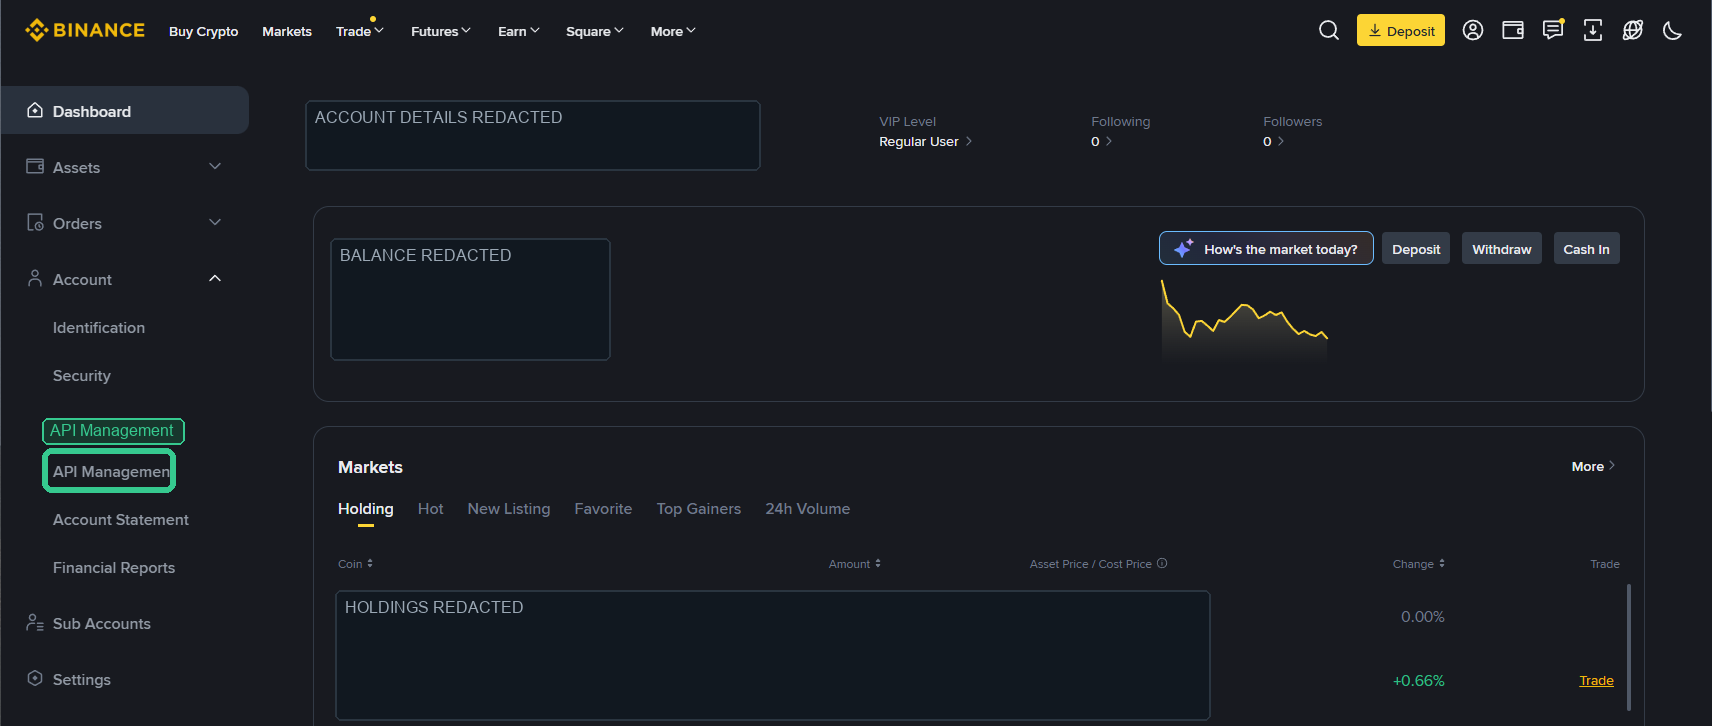
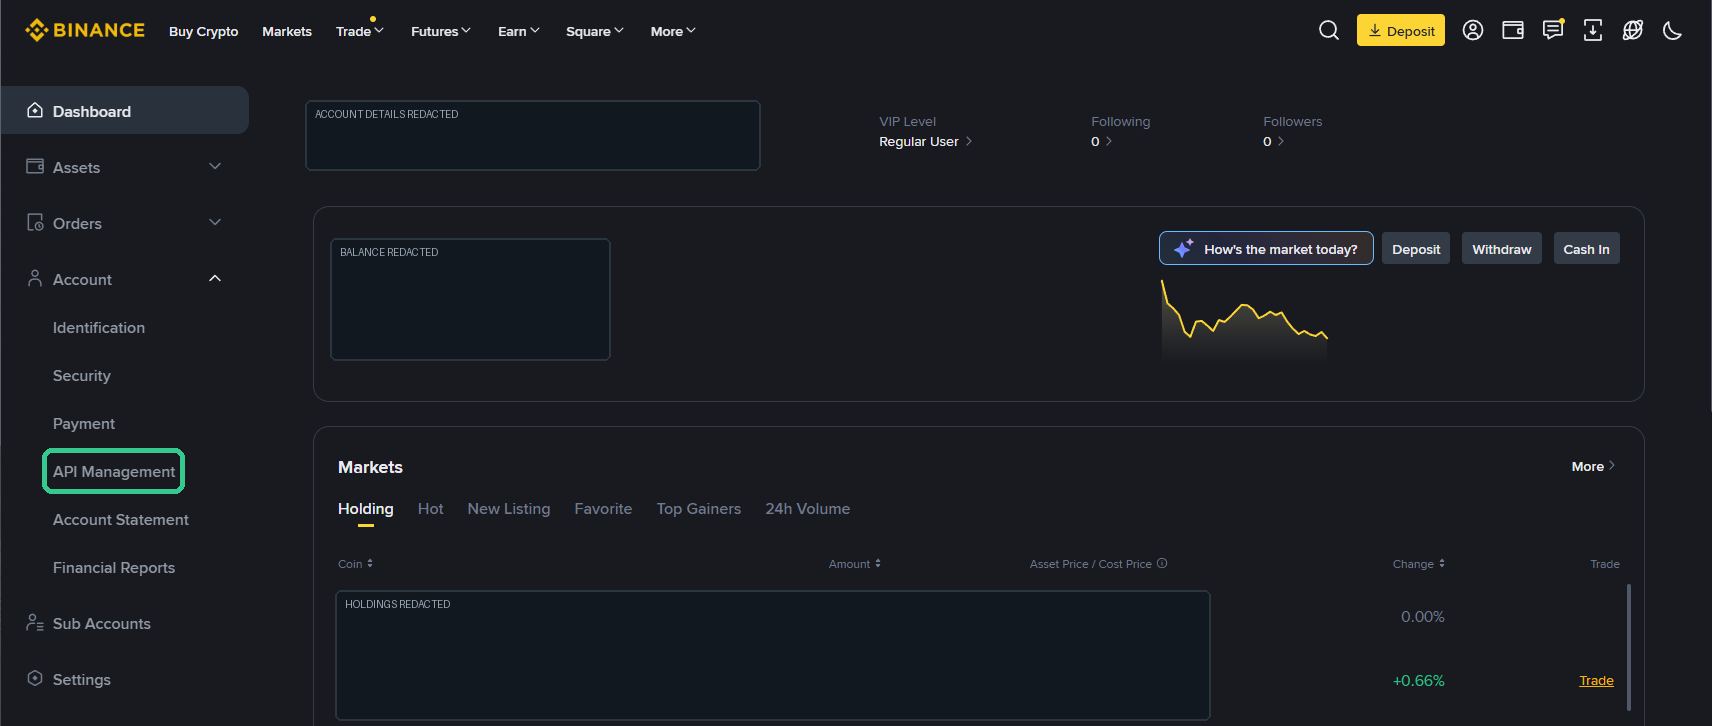
Add local AI model recommender

diff --git a/coinductor/qml/Main.qml b/coinductor/qml/Main.qml
@@ -167,6 +167,18 @@ ApplicationWindow {
         wizardStep = Math.min(wizardStep + 1, wizardSteps.length - 1)
     }
 
+    function wizardPanelHeight() {
+        if (wizardStep === 2)
+            return 720
+        if (wizardStep === 3)
+            return 840
+        if (wizardStep === 4)
+            return 660
+        if (wizardStep === 5)
+            return 660
+        return 560
+    }
+
     Item {
         anchors.fill: parent
         visible: appController.onboardingWizardVisible
@@ -336,7 +348,7 @@ ApplicationWindow {
 
                     Rectangle {
                         Layout.fillWidth: true
-                        Layout.fillHeight: true
+                        Layout.preferredHeight: window.wizardPanelHeight()
                         radius: 7
                         color: panel
                         border.color: border
@@ -709,7 +721,7 @@ ApplicationWindow {
                                         spacing: 12
                                         Rectangle {
                                             Layout.fillWidth: true
-                                            Layout.preferredHeight: 282
+                                            Layout.preferredHeight: 360
                                             radius: 7
                                             color: panelRaised
                                             border.color: border
@@ -740,13 +752,42 @@ ApplicationWindow {
                                                             window.showToast("Local AI settings saved")
                                                         }
                                                     }
-                                                    Text { Layout.fillWidth: true; text: "Planned helper: detect installed Ollama models and suggest one from your hardware tier."; color: textSecondary; font.pixelSize: 10; wrapMode: Text.WordWrap }
+                                                    Button {
+                                                        text: "Scan hardware"
+                                                        onClicked: appController.scanLocalAiHardware()
+                                                    }
+                                                }
+                                                Text { Layout.fillWidth: true; text: appController.localAiHardwareSummary; color: textSecondary; font.pixelSize: 10; wrapMode: Text.WordWrap }
+                                                ListView {
+                                                    Layout.fillWidth: true
+                                                    Layout.fillHeight: true
+                                                    clip: true
+                                                    interactive: false
+                                                    spacing: 4
+                                                    model: appController.localAiModelRecommendations
+                                                    delegate: Rectangle {
+                                                        required property var modelData
+                                                        width: ListView.view.width
+                                                        height: 42
+                                                        radius: 5
+                                                        color: "#141a21"
+                                                        border.color: border
+                                                        RowLayout {
+                                                            anchors.fill: parent
+                                                            anchors.leftMargin: 10
+                                                            anchors.rightMargin: 10
+                                                            spacing: 8
+                                                            Text { Layout.preferredWidth: 90; text: modelData.model; color: accent; font.pixelSize: 11; font.bold: true; elide: Text.ElideRight }
+                                                            Text { Layout.preferredWidth: 78; text: modelData.fit; color: textPrimary; font.pixelSize: 10; font.bold: true; elide: Text.ElideRight }
+                                                            Text { Layout.fillWidth: true; text: modelData.reason; color: textSecondary; font.pixelSize: 10; elide: Text.ElideRight }
+                                                        }
+                                                    }
                                                 }
                                             }
                                         }
                                         Rectangle {
                                             Layout.fillWidth: true
-                                            Layout.preferredHeight: 282
+                                            Layout.preferredHeight: 360
                                             radius: 7
                                             color: panelRaised
                                             border.color: border

diff --git a/coinductor/local_ai_recommender.py b/coinductor/local_ai_recommender.py
@@ -1,0 +1,109 @@
+from __future__ import annotations
+
+import ctypes
+import platform
+import shutil
+import subprocess
+from dataclasses import dataclass
+
+
+@dataclass(frozen=True)
+class LocalAiRecommendation:
+    model: str
+    fit: str
+    reason: str
+
+
+@dataclass(frozen=True)
+class LocalAiHardwareSnapshot:
+    summary: str
+    ram_gb: float
+    gpu_name: str
+    gpu_vram_gb: float
+    recommendations: tuple[LocalAiRecommendation, ...]
+
+
+class LocalAiRecommender:
+    def inspect(self) -> LocalAiHardwareSnapshot:
+        ram_gb = _system_ram_gb()
+        gpu_name, gpu_vram_gb = _nvidia_gpu()
+        recommendations = self._recommend(ram_gb, gpu_vram_gb)
+        gpu_label = f"{gpu_name} ({gpu_vram_gb:.0f} GB VRAM)" if gpu_name else "No NVIDIA GPU detected"
+        summary = f"{platform.system()} detected, {ram_gb:.0f} GB RAM, {gpu_label}."
+        return LocalAiHardwareSnapshot(summary, ram_gb, gpu_name, gpu_vram_gb, tuple(recommendations))
+
+    def _recommend(self, ram_gb: float, gpu_vram_gb: float) -> list[LocalAiRecommendation]:
+        if gpu_vram_gb >= 15 and ram_gb >= 30:
+            return [
+                LocalAiRecommendation("qwen3:14b", "Best fit", "Good balance for stronger consumer GPUs with about 16 GB VRAM."),
+                LocalAiRecommendation("qwen3:8b", "Safer/faster", "Lower memory pressure and faster responses."),
+                LocalAiRecommendation("llama3.1:8b", "Alternative", "Popular general-purpose 8B-class local model."),
+            ]
+        if gpu_vram_gb >= 10:
+            return [
+                LocalAiRecommendation("qwen3:8b", "Best fit", "Practical 8B-class starting point for mid-range GPUs."),
+                LocalAiRecommendation("llama3.1:8b", "Alternative", "General-purpose option with similar hardware expectations."),
+                LocalAiRecommendation("qwen3:4b", "Safer/faster", "Lower memory usage if 8B feels slow."),
+            ]
+        if gpu_vram_gb >= 6 or ram_gb >= 16:
+            return [
+                LocalAiRecommendation("qwen3:4b", "Best fit", "Smaller model for limited VRAM or CPU/RAM fallback."),
+                LocalAiRecommendation("llama3.2:3b", "Safer/faster", "Good lightweight baseline for setup help and summaries."),
+                LocalAiRecommendation("qwen3:8b", "Try carefully", "May work slowly with partial offload on some systems."),
+            ]
+        return [
+            LocalAiRecommendation("llama3.2:3b", "Best fit", "Small local model for basic app help."),
+            LocalAiRecommendation("qwen3:1.7b", "Safer/faster", "Very small fallback for low-memory systems."),
+            LocalAiRecommendation("qwen3:4b", "Try carefully", "May be slow without enough memory."),
+        ]
+
+
+def _system_ram_gb() -> float:
+    if platform.system().lower() == "windows":
+        class MemoryStatusEx(ctypes.Structure):
+            _fields_ = [
+                ("dwLength", ctypes.c_ulong),
+                ("dwMemoryLoad", ctypes.c_ulong),
+                ("ullTotalPhys", ctypes.c_ulonglong),
+                ("ullAvailPhys", ctypes.c_ulonglong),
+                ("ullTotalPageFile", ctypes.c_ulonglong),
+                ("ullAvailPageFile", ctypes.c_ulonglong),
+                ("ullTotalVirtual", ctypes.c_ulonglong),
+                ("ullAvailVirtual", ctypes.c_ulonglong),
+                ("ullAvailExtendedVirtual", ctypes.c_ulonglong),
+            ]
+
+        status = MemoryStatusEx()
+        status.dwLength = ctypes.sizeof(MemoryStatusEx)
+        if ctypes.windll.kernel32.GlobalMemoryStatusEx(ctypes.byref(status)):
+            return status.ullTotalPhys / (1024**3)
+    return 0.0
+
+
+def _nvidia_gpu() -> tuple[str, float]:
+    executable = shutil.which("nvidia-smi")
+    if not executable:
+        return "", 0.0
+    try:
+        completed = subprocess.run(
+            [
+                executable,
+                "--query-gpu=name,memory.total",
+                "--format=csv,noheader,nounits",
+            ],
+            check=True,
+            capture_output=True,
+            text=True,
+            timeout=5,
+        )
+    except (OSError, subprocess.SubprocessError):
+        return "", 0.0
+
+    first_line = completed.stdout.strip().splitlines()[0] if completed.stdout.strip() else ""
+    if not first_line or "," not in first_line:
+        return "", 0.0
+    name, memory_mb = [part.strip() for part in first_line.split(",", 1)]
+    try:
+        return name, float(memory_mb) / 1024
+    except ValueError:
+        return name, 0.0

diff --git a/coinductor/controller.py b/coinductor/controller.py
@@ -15,6 +15,7 @@ from .env_writer import EnvWriter
 from .first_portfolio_planner import FirstPortfolioPlanner
 from .guide_service import GuideService
 from .local_data_reset import LocalDataResetService
+from .local_ai_recommender import LocalAiRecommender
 from .models import AiProviderHealthResult, ConnectionCheckResult, DesktopRunResult, RunOptions
 from .readiness_service import ReadinessService
 from .safety_service import SafetyService
@@ -108,6 +109,7 @@ class AppController(QObject):
     readinessChanged = Signal()
     firstPortfolioPlanChanged = Signal()
     onboardingWizardChanged = Signal()
+    localAiRecommendationChanged = Signal()
 
     def __init__(self, parent: QObject | None = None):
         super().__init__(parent)
@@ -143,6 +145,8 @@ class AppController(QObject):
         self._assistant_busy = False
         self._ai_provider_health_status = "Not checked"
         self._ai_provider_health_detail = "Run an AI provider check after configuring LLM_BASE_URL and LLM_MODEL."
+        self._local_ai_hardware_summary = "Hardware has not been scanned yet."
+        self._local_ai_model_recommendations: list[dict[str, str]] = []
         self._snapshot = DesktopStore().load()
         self._setup_snapshot = SetupService().inspect()
         self._ai_provider_snapshot = AiProviderService().inspect()
@@ -324,6 +328,14 @@ class AppController(QObject):
     @Property(str, notify=aiProviderChanged)
     def aiProviderHealthDetail(self) -> str:
         return self._ai_provider_health_detail
+
+    @Property(str, notify=localAiRecommendationChanged)
+    def localAiHardwareSummary(self) -> str:
+        return self._local_ai_hardware_summary
+
+    @Property("QVariantList", notify=localAiRecommendationChanged)
+    def localAiModelRecommendations(self) -> list[dict[str, str]]:
+        return list(self._local_ai_model_recommendations)
 
     @Property(str, notify=userProfileChanged)
     def userProfileSummary(self) -> str:
@@ -607,6 +619,16 @@ class AppController(QObject):
         self._ai_provider_thread.finished.connect(self._ai_provider_thread.deleteLater)
         self._ai_provider_thread.finished.connect(self._clear_ai_provider_worker)
         self._ai_provider_thread.start()
+
+    @Slot()
+    def scanLocalAiHardware(self) -> None:
+        snapshot = LocalAiRecommender().inspect()
+        self._local_ai_hardware_summary = snapshot.summary
+        self._local_ai_model_recommendations = [
+            {"model": item.model, "fit": item.fit, "reason": item.reason}
+            for item in snapshot.recommendations
+        ]
+        self.localAiRecommendationChanged.emit()
 
     @Slot(str, str)
     def saveBinanceReadOnlyCredentials(self, api_key: str, api_secret: str) -> None:

diff --git a/coinductor/guide_service.py b/coinductor/guide_service.py
@@ -23,8 +23,8 @@ class GuideService:
                         "Use this path when you want Coinductor to stay local-first.",
                         "",
                         "1. Open https://ollama.com/ and use the Download button to install Ollama for your operating system.",
-                        "2. Pick a model that fits your hardware. There is no trusted generic online PC scanner in this guide yet; do not run random hardware scanners just to choose a model. Coinductor should later add a local hardware helper for this.",
-                        "3. On https://ollama.com/search, search for the model you chose from step 2. Pull that exact model, for example qwen3:8b on smaller systems or qwen3:14b on stronger GPUs.",
+                        "2. Pick a model that fits your hardware. Use Coinductor's Scan hardware button in the AI setup step for a local recommendation. Do not run random online PC scanners just to choose a model.",
+                        "3. On https://ollama.com/search, search for the model recommended in step 2. Pull that exact model, for example qwen3:8b on smaller systems or qwen3:14b on stronger GPUs.",
                         "4. Keep Ollama running while Coinductor uses AI features. On Windows this usually means the Ollama icon remains visible in the system tray.",
                         "5. In Coinductor, set the local endpoint to http://127.0.0.1:11434/v1 and the model name to the model you pulled.",
                         "6. Run Check AI provider before relying on report summaries or assistant answers.",

diff --git a/tests/test_coinductor_local_ai_recommender.py b/tests/test_coinductor_local_ai_recommender.py
@@ -1,0 +1,22 @@
+from coinductor.local_ai_recommender import LocalAiRecommender
+
+
+def test_local_ai_recommender_prefers_14b_for_strong_gpu() -> None:
+    recommendations = LocalAiRecommender()._recommend(ram_gb=31, gpu_vram_gb=16)
+
+    assert recommendations[0].model == "qwen3:14b"
+    assert recommendations[0].fit == "Best fit"
+
+
+def test_local_ai_recommender_prefers_smaller_models_without_gpu() -> None:
+    recommendations = LocalAiRecommender()._recommend(ram_gb=8, gpu_vram_gb=0)
+
+    assert recommendations[0].model == "llama3.2:3b"
+    assert any(item.model == "qwen3:1.7b" for item in recommendations)
+
+
+def test_local_ai_recommender_snapshot_has_summary_and_recommendations() -> None:
+    snapshot = LocalAiRecommender().inspect()
+
+    assert "RAM" in snapshot.summary
+    assert snapshot.recommendations

diff --git a/docs/COINDUCTOR_STAGE_A_TESTING.md b/docs/COINDUCTOR_STAGE_A_TESTING.md
@@ -43,6 +43,8 @@ terminal.
   `GUARDED_AUTOMATION`.
 - In AI setup, save a local AI endpoint/model or skip it. If you save one, run
   `Check AI provider`.
+- In AI setup, click `Scan hardware` and confirm Coinductor shows a local hardware
+  summary and ranked Ollama model suggestions.
 - Open `Local AI guide` and `Cloud AI guide` from the wizard. Confirm the guides
   open in a modal and return to the same wizard step when closed.
 - In Binance API setup, follow the shown Binance API steps and paste the read-only
